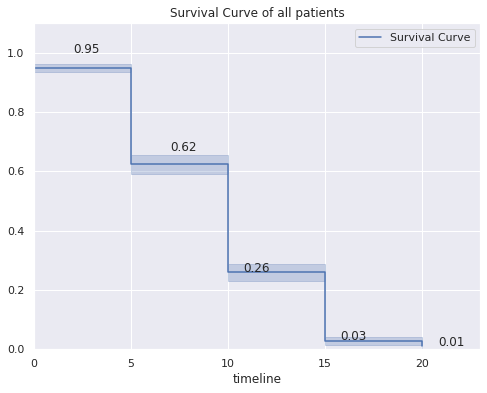
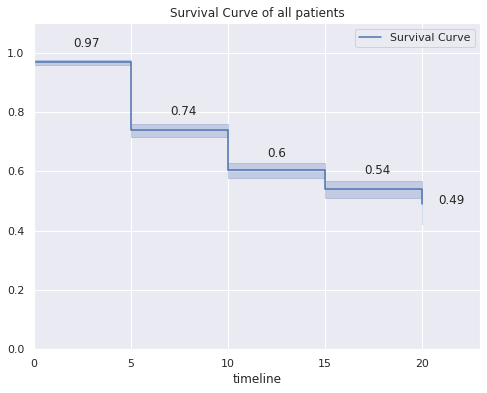
index upgrade II

Changed region(s): [[0.2464, 0.2748, 0.9548, 0.8855], [0.0616, 0.0916, 0.2772, 0.1832]]

diff --git a/index.md b/index.md
@@ -1,15 +1,3 @@
-# Survival rate of prostate cancer in a Sudameric Ocncologyc Instutute
-
-Prostate cancer is the most common malignant tumor in men and the vast majority of cases occur after the age of 65 years and rarely in those younger than 45 years.
-
-The survival rate is the percentage of people who survive after being diagnosed with a disease within a certain period of time (5 to 10 years).  In general, prostate cancer survival rates are very good when the disease is diagnosed in early stages, reaching 100%, 98% and 93% at 5, 10 and 15 years, respectively. This rate drops to 30% at 5 years if the diagnosis is made in advanced stages. Therefore, the survival rate is directly related to the clinical stage of the disease.
-
-The data for this small review were obtained from the medical records of 1639 patients treated in the period 2000-2010 in an Oncological Institution in South America specialized in cancer treatment. Therefore, patient data are confidential and have been anonymized. 
-
-
-The aim of this small review is to know what is the survival rate in this oncological institute for patients diagnosed in the period indicated above.
-
-
 # Exploratory Data Analysis
 
 
@@ -2198,8 +2186,8 @@ df_R
   <thead>
     <tr style="text-align: right;">
       <th></th>
-      <th>Con Radioterapia</th>
-      <th>Sin Radioterapia</th>
+      <th>With radiotherapy</th>
+      <th>Without radiotherapy</th>
     </tr>
     <tr>
       <th>timeline</th>
@@ -2673,79 +2661,41 @@ df_stages_recurr
 ## Conclusions
 
 * The average age at diagnosis of prostate cancer in the sample was around 70 years.
-
 * Patients with stage IV disease have a median age of 72 years, while patients with stages I, II and III have a median age greater than 65 and less than 70 years.
-
 * The mean age at death of the patients in the sample who have died is around 5 years, which means that the majority, at least on average, live 5 years.
-
 * The average time of death of patients is around 5 years.
-
 * The median time of patients alive in 2020 is around 14-15 years.
-
 * More than 50% of the patients in the sample have been diagnosed with stage IV.
-
 * De la muestra de pacientes agrupados por estadío clínico, se pude observar:
     - __Estadio I__: 78.57% de los pacientes esta vivo hasta el momento de la generación de la base de datos en 2020
     - __Estadio II__: 72.76% de los pacientes esta vivo hasta el momento de la generación  de la base de datos en 2020
     - __Estadio III__: 67.48% de los pacientes esta vivo hasta el momento de la generación de la base de datos en 2020
     - __Estadio IV__: 22.93% de los pacientes esta vivo hasta el momento de la generación de la base de datos en 2020
-
 * Patients who have received radiotherapy, at least on average, have a longer average lifespan than those who have not received radiotherapy.
-
 * About the overall survival of the patients in the sample:
     - The probability of survival of a patient in the first 5 years after being diagnosed is 0.97.
     - The probability of survival of a patient between 5 and 10 years after diagnosis is 0.74
     - The probability of survival of a patient between 10 and 15 years after diagnosis is 0.6
     - The probability of survival of a patient between 15 and 20 years after diagnosis is 0.54
     - The probability of survival of a patient more than 20 years after diagnosis is 0.49
-
 * About the survival grouped by stage of the patients in the sample:
     - The 5-year survival probability of a patient presenting stage I is 0.89, while a patient presenting stage IV is 0.44.
     - The 10-year survival probability of a patient presenting with stage I is 0.81, while a patient presenting with stage IV is 0.27.
     - The 15-year survival probability for a patient presenting with stage I is 0.77, while a patient presenting with stage IV is 0.23.
     - The 20-year survival probability for a patient presenting with stage I is 0.77, while a patient presenting with stage IV is 0.19.
-
 * The probability of survival of a patient with stage I, II and II is much higher than that of a patient with stage IV.
-
 * As the patient is diagnosed at an advanced stage of the disease, the probability of survival decreases dramatically.
-
-
 * On the survival of the sample grouped by those patients who received radiotherapy:
     - The 5-year survival probability of a patient who received radiotherapy is 0.88, while that of a patient who did not receive is 0.58.
     - The 10-year survival probability of a patient who received radiotherapy is 0.77, while that of a patient who did not receive is 0.43.
     - The 15-year survival probability of a patient who received radiotherapy is 0.70, while that of a patient who did not receive is 0.38.
     - The 20-year survival probability of a patient who received radiotherapy is 0.70, while that of a patient who did not receive is 0.34.
-
 * There is a large difference in the survival probability of patients who received radiotherapy, which varies greatly depending on those who did not receive this treatment.
-
 * About the recurrence of patients:
-<<<<<<< HEAD
     - 78.08% of patients present a recurrence of cancer during the study time.
     - The probability that the disease does not recur in the first 5 years is 0.95
     - The probability that the disease will not recur in the first 10 years is 0.62%.
     - The probability that the disease does not recur in the first 15 years is 0.26
     - The probability that the disease will not recur within the first 20 years is 0.03
     - The probability that the disease will not recur in the first 20 years is 0.01.
-
 * The probability of non-recurrence in patients with stage IV is much lower than in those with stages I, II and III, but the probability of these stages decreasing together after 10 years, with stages I and II being very similar.
-
- <li>Third item
-    <br>
-    <ul>
-      <li>Indented item</li>
-      <li>Indented item</li>
-    </ul>
-  </li>
-  <br>
-  <li>Fourth item</li>
-</ul>
-=======
-    ** 78.08% of patients present a recurrence of cancer during the study time.
-    ** The probability that the disease does not recur in the first 5 years is 0.95
-    ** The probability that the disease will not recur in the first 10 years is 0.62%.
-    ** The probability that the disease does not recur in the first 15 years is 0.26
-    ** The probability that the disease will not recur within the first 20 years is 0.03
-    ** The probability that the disease will not recur in the first 20 years is 0.01.
-
-* The probability of non-recurrence in patients with stage IV is much lower than in those with stages I, II and III, but the probability of these stages decreasing together after 10 years, with stages I and II being very similar.
->>>>>>> main
